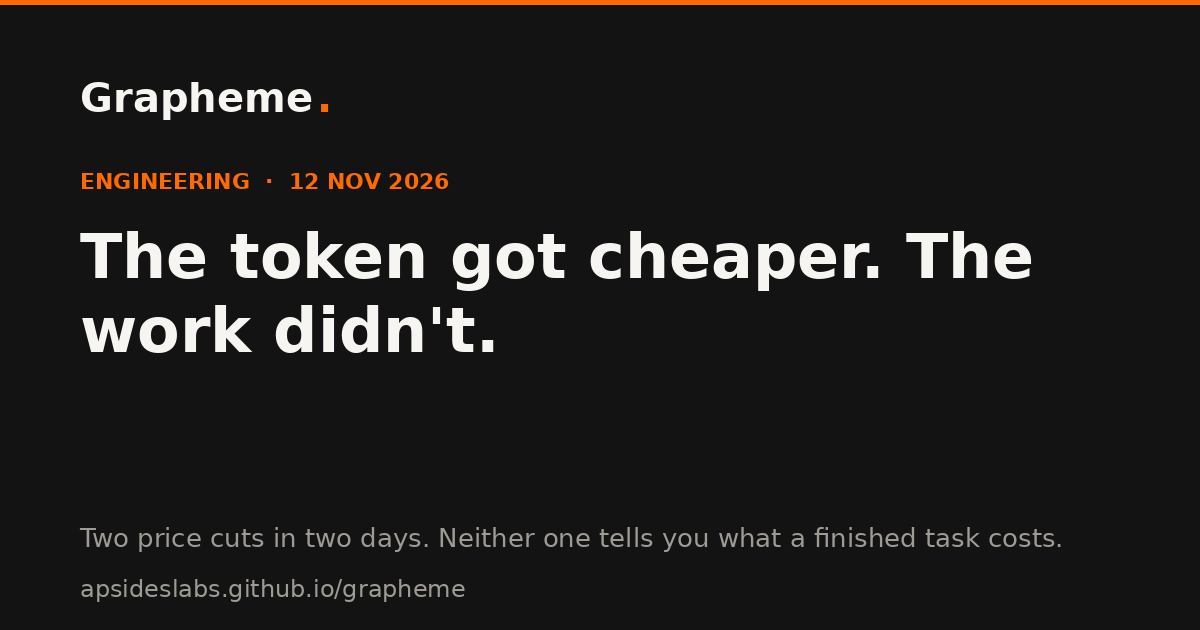
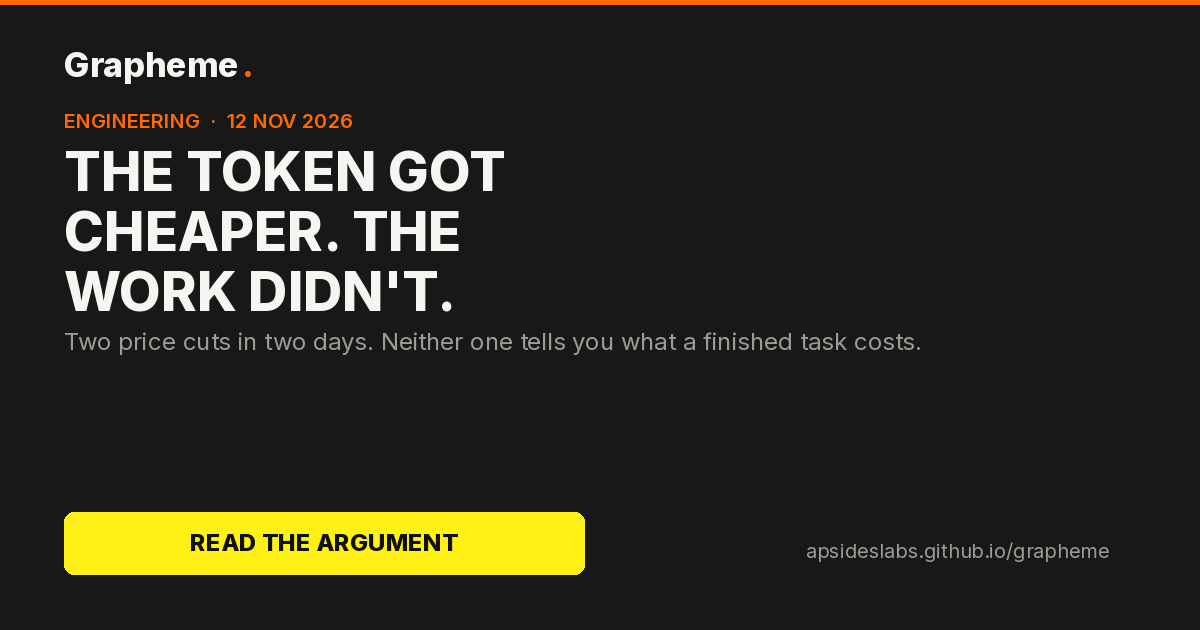
Restore the reference styling and rebuild the post imagery
An intermediate pass had muted the design toward an "institutional" register:
the yellow action became ivory, chips lost their orange icons, tags went
hairline, and emphasis in prose lost its colour. That moved away from the
reference this system is modelled on, so it is reverted:

- --action is #FFF116 again on both themes; the yellow slab is back as the
  single primary action.
- Spec chips are filled surfaces with orange icons; tags and the active filter
  chip use the orange soft fill; kickers and section heads carry orange squares.
- Masthead and standfirst return to Inter (800 / 400) instead of the serif.
- Emphasis inside prose and in arrow bullets is accent-coloured again.
- The trust strip is the one light plate on the dark page, as on the reference.

Post imagery rebuilt in the same language with Inter: cover (dark canvas,
orange kicker, chips, orange bullet list, yellow slab), OG card, and the
1080x1530 share card with the three headline figures and the verification QR.
Replaces the earlier line-art cover and plain text-on-black cards.

diff --git a/assets/style.css b/assets/style.css
@@ -50,11 +50,10 @@
   --accent-ink:  #FF8A33;
   --accent-soft: rgba(255, 106, 0, .13);
 
-  /* Primary action is ivory on the dark ground — the loud yellow read as
-     promotional; an off-white button reads institutional. Yellow survives
-     only as the theme's highlight token, unused by default. */
-  --action:      #F2EFE9;
-  --action-ink:  #FFFFFF;
+  /* Action is the reference's yellow slab: the loudest thing on the page,
+     used for one button and nothing else. */
+  --action:      #FFF116;
+  --action-ink:  #E6D800;
   --on-action:   #111111;
   --highlight:   #FFF116;
 
@@ -95,10 +94,9 @@
   --accent-ink:  #C23C06;
   --accent-soft: #FCE9DE;
 
-  /* on ivory, the action inverts to ink */
-  --action:      #17191D;
-  --action-ink:  #000000;
-  --on-action:   #FAF8F3;
+  --action:      #FFF116;
+  --action-ink:  #E6D800;
+  --on-action:   #111111;
 
   --shadow-md: 0 1px 2px rgba(20,20,20,.06);
   --shadow-lg: 0 14px 34px rgba(20,20,20,.10);
@@ -244,8 +242,8 @@ button { font: inherit; color: inherit; }
   color: var(--accent);
 }
 .kicker::before, .eyebrow::before {
-  content: ""; display: inline-block; width: 18px; height: 1px;
-  background: var(--accent); margin-right: .6rem; vertical-align: 4px;
+  content: ""; display: inline-block; width: 7px; height: 7px;
+  background: var(--accent); margin-right: .5rem; vertical-align: 1px; border-radius: 2px;
 }
 .kicker { margin-bottom: var(--sp-2); }
 
@@ -258,14 +256,14 @@ button { font: inherit; color: inherit; }
     var(--canvas);
 }
 .masthead-name {
-  font-family: var(--serif); font-weight: 500;
-  font-size: clamp(2.5rem, 6.4vw, 4.1rem); line-height: 1;
-  letter-spacing: -.028em; margin: 0;
+  font-family: var(--sans); font-weight: 800;
+  font-size: clamp(2.6rem, 7.2vw, 4.6rem); line-height: .95;
+  letter-spacing: -.04em; margin: 0;
 }
 .masthead-name .dot { color: var(--accent); }
 .masthead-tag {
-  font-family: var(--serif); font-size: 1.18rem; color: var(--muted);
-  margin: .8rem 0 0; max-width: 54ch; line-height: 1.55;
+  font-family: var(--sans); font-size: var(--fs-md); color: var(--muted);
+  margin: .8rem 0 0; max-width: 52ch; line-height: 1.55;
 }
 .masthead-line {
   display: flex; flex-wrap: wrap; gap: .55rem; align-items: center;
@@ -285,12 +283,12 @@ button { font: inherit; color: inherit; }
 @media (min-width: 720px) { .specgrid { grid-template-columns: repeat(4, minmax(0, 1fr)); gap: .75rem; } }
 .spec {
   display: flex; align-items: center; gap: .65rem;
-  background: transparent; border: 1px solid var(--line);
+  background: var(--surface); border: 1px solid var(--line-2);
   border-radius: var(--radius-lg); padding: .7rem .9rem;
-  font-size: var(--fs-sm); font-weight: 500; color: var(--ink-2);
+  font-size: var(--fs-sm); font-weight: 600; color: var(--ink);
   line-height: 1.3;
 }
-.spec svg { color: var(--faint); flex: none; }
+.spec svg { color: var(--accent); flex: none; }
 .spec span { min-width: 0; }
 .spec small { display: block; font-size: 0.68rem; font-weight: 600; letter-spacing: .11em; text-transform: uppercase; color: var(--faint); margin-bottom: .1rem; }
 
@@ -304,25 +302,25 @@ button { font: inherit; color: inherit; }
   content: "\2192"; position: absolute; left: 0; top: -.05em;
   color: var(--accent); font-weight: 700; font-size: 1.05em;
 }
-.arrows strong { color: var(--ink); font-weight: 600; }
+.arrows strong { color: var(--accent-ink); font-weight: 600; }
 
 /* ---------- Trust strip (light plate on the dark canvas) ---------- */
+/* the one light plate on the dark page — the reference's "featured in" strip */
 .trust-strip {
-  background: transparent; color: var(--ink);
-  border: 1px solid var(--line);
+  background: #F7F5F1; color: #17191D;
   border-radius: var(--radius-lg);
-  padding: 1.1rem 1.25rem;
-  display: grid; gap: .5rem;
+  padding: 1.05rem 1.2rem;
+  display: grid; gap: .55rem;
   grid-template-columns: repeat(2, minmax(0,1fr));
-  text-align: left;
+  text-align: center;
 }
 @media (min-width: 720px) { .trust-strip { grid-template-columns: repeat(4, minmax(0,1fr)); } }
 .trust-strip .t-label {
-  font: 600 .66rem/1.3 var(--sans); letter-spacing: .14em;
-  text-transform: uppercase; color: var(--faint);
+  font: 700 .66rem/1.3 var(--sans); letter-spacing: .16em;
+  text-transform: uppercase; color: #6E6B66;
 }
 .trust-strip .t-value {
-  font: 500 1rem/1.3 var(--sans); color: var(--ink); letter-spacing: -.005em;
+  font: 700 1rem/1.3 var(--sans); color: #17191D; letter-spacing: -.01em;
   margin-top: .2rem;
 }
 
@@ -342,7 +340,7 @@ a.chip { text-decoration: none; display: inline-block; }
   transition: all .15s var(--ease);
 }
 .chip:hover { border-color: var(--accent); color: var(--accent); }
-.chip[aria-pressed="true"] { background: var(--ink); color: var(--canvas); border-color: var(--ink); }
+.chip[aria-pressed="true"] { background: var(--accent); color: #fff; border-color: var(--accent); }
 .topics .chip, a.chip { border-radius: 8px; }
 
 /* ---------- Section heads ---------- */
@@ -357,7 +355,7 @@ a.chip { text-decoration: none; display: inline-block; }
   color: var(--ink); display: flex; align-items: center; gap: .55rem;
 }
 .section-head h2::before {
-  content: ""; width: 14px; height: 1px; background: var(--accent); flex: none;
+  content: ""; width: 8px; height: 8px; background: var(--accent); border-radius: 2px; flex: none;
 }
 .section-head p { color: var(--muted); font-size: var(--fs-sm); }
 .link-more { font-weight: 600; font-size: var(--fs-sm); color: var(--accent); white-space: nowrap; }
@@ -409,10 +407,10 @@ a.chip { text-decoration: none; display: inline-block; }
 .entry-dek { color: var(--muted); font-size: var(--fs-base); max-width: 62ch; }
 .entry-tag, .post-tag {
   justify-self: end; align-self: start;
-  font-size: 0.68rem; font-weight: 600; letter-spacing: .1em; text-transform: uppercase;
-  color: var(--muted); background: transparent;
+  font-size: 0.68rem; font-weight: 700; letter-spacing: .1em; text-transform: uppercase;
+  color: var(--accent-ink); background: var(--accent-soft);
   padding: .3rem .55rem; border-radius: 5px; white-space: nowrap;
-  border: 1px solid var(--line-2);
+  border: 1px solid rgba(255,106,0,.3);
 }
 @media (max-width: 720px) {
   .entry { grid-template-columns: 1fr; gap: .6rem; }
@@ -440,11 +438,11 @@ a.chip { text-decoration: none; display: inline-block; }
 .read-more { font-weight: 600; font-size: var(--fs-sm); color: var(--accent); }
 .read-more:hover { color: var(--accent-ink); }
 .tag {
-  display: inline-block; font-size: 0.68rem; font-weight: 600;
+  display: inline-block; font-size: 0.68rem; font-weight: 700;
   letter-spacing: .1em; text-transform: uppercase;
-  color: var(--muted); background: transparent;
+  color: var(--accent-ink); background: var(--accent-soft);
   padding: .3rem .55rem; border-radius: 5px;
-  border: 1px solid var(--line-2);
+  border: 1px solid rgba(255,106,0,.3);
 }
 
 /* ---------- Products / studio ---------- */
@@ -531,7 +529,7 @@ a.chip { text-decoration: none; display: inline-block; }
   display: grid; place-items: center;
 }
 .prose li + li { margin-top: .5em; }
-.prose strong { color: var(--ink); font-weight: 600; }
+.prose strong { color: var(--accent-ink); font-weight: 600; }
 .prose > p:first-of-type::first-letter {
   float: left; font-family: var(--serif); font-weight: 600; color: var(--ink);
   font-size: 3.2em; line-height: .82; margin: .06em .1em 0 0;

diff --git a/CHANGES.md b/CHANGES.md
@@ -28,12 +28,13 @@ name still works, so all 20+ pages inherit the new look without markup rewrites.
 | `--ink` / `--ink-2` | `#F7F5F1` / `#D8D4CD` | `#17191D` / `#34373D` | Text |
 | `--muted` / `--faint` | `#9E9A94` / `#74706B` | `#6E6B66` / `#8E8A84` | Secondary text |
 | `--accent` | `#FF6A00` | `#E8500F` | Emphasis, arrows, icons, tags |
-| `--action` | `#F2EFE9` | `#17191D` | Primary button only (ivory on dark, ink on ivory) |
+| `--action` | `#FFF116` | `#FFF116` | Primary button only — the reference's yellow slab |
 
 Contrast on the dark canvas: accent 6.2:1, body 16.7:1, black on the ivory action 16.2:1.
 
-Yellow (`#FFF116`) is kept only as `--highlight` and is not used by default — the
-first pass used it for every CTA, which read promotional rather than editorial.
+Yellow (`#FFF116`) carries the single primary action on every page and nothing
+else. An intermediate pass replaced it with ivory; that lost the reference's
+signature and has been reverted.
 
 ## Components
 
@@ -47,11 +48,11 @@ first pass used it for every CTA, which read promotional rather than editorial.
 - **Sticky subscribe bar** (`.subscribe-bar`) — injected by `main.js` after 420px
   of scroll, dismissible, remembered in `localStorage` under `grapheme-sb`.
   Article pages link `../feed.xml` automatically.
-- **Type** — Newsreader serif for the masthead, standfirst and long-form `.prose`
-  body; Inter for UI, headings, labels and cards at 500–600 weight with −0.01 to
-  −0.025em tracking. Drop cap in ink, not accent.
-- **Accent discipline** — orange is limited to links, kickers (as a hairline rule),
-  arrow markers and the top rule. Emphasis inside prose is weight, not colour.
+- **Type** — Inter for the masthead, headings, labels and cards (600–800, −0.01 to
+  −0.04em tracking); Newsreader serif kept for long-form `.prose` body only, so
+  articles still read like a publication. Drop cap in ink.
+- **Accent** — orange marks kickers, arrow bullets, chips icons, tags and emphasis
+  inside prose, as on the reference. Emphasis is colour *and* weight, not weight alone.
 - **Radii** — 10px buttons, 12px chips, 14px cards. No shadows on the dark theme;
   separation comes from fills and 1px borders.
 
